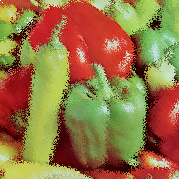
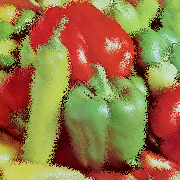
example: up images to 180px, cleanup markup, use pseudo elements as gridlines

diff --git a/example/index.html b/example/index.html
@@ -14,29 +14,29 @@
     <figure>
       <ul>
         <li>
-          <img src="assets/elaine.jpg" width="179" height="179" alt="assets/elaine.jpg" />
+          <img src="assets/elaine.jpg" height="180" width="180" alt="assets/elaine.jpg" />
         </li>
         <li>
-          <canvas width="179" height="179">
-            <img src="assets/elaine-1.png" width="179" height="179" alt="assets/elaine.jpg" />
+          <canvas height="180" width="180">
+            <img src="assets/elaine-1.png" height="180" width="180" alt="assets/elaine.jpg" />
           </canvas>
         </li>
         <li>
-          <canvas width="179" height="179">
-            <img src="assets/elaine-2.png" width="179" height="179" alt="assets/elaine.jpg" />
+          <canvas height="180" width="180">
+            <img src="assets/elaine-2.png" height="180" width="180" alt="assets/elaine.jpg" />
           </canvas>
         </li>
         <li>
-          <img src="assets/4.2.07.jpg" width="179" height="179" alt="assets/4.2.07.jpg" />
+          <img src="assets/4.2.07.jpg" height="180" width="180" alt="assets/4.2.07.jpg" />
         </li>
         <li>
-          <canvas width="179" height="179">
-            <img src="assets/4.2.07-1.png" width="179" height="179" alt="assets/4.2.07.jpg" />
+          <canvas height="180" width="180">
+            <img src="assets/4.2.07-1.png" height="180" width="180" alt="assets/4.2.07.jpg" />
           </canvas>
         </li>
         <li>
-          <canvas width="179" height="179">
-            <img src="assets/4.2.07-2.png" width="179" height="179" alt="assets/4.2.07.jpg" />
+          <canvas height="180" width="180">
+            <img src="assets/4.2.07-2.png" height="180" width="180" alt="assets/4.2.07.jpg" />
           </canvas>
         </li>
       </ul>

diff --git a/example/index.css b/example/index.css
@@ -35,6 +35,17 @@ figure {
   top: 50%;
 }
 
+figure::before {
+  background: #fff;
+  content: "";
+  height: 1px;
+  left: 0;
+  position: absolute;
+  right: 0;
+  top: 180px;
+  z-index: 101;
+}
+
 figcaption {
   margin: 0.5rem 0 0;
 }
@@ -44,20 +55,33 @@ ul {
   list-style: none;
   margin: 0;
   padding: 0;
+  position: relative;
   width: 540px;
+}
+
+ul::before,
+ul::after {
+  background: #fff;
+  content: "";
+  height: 100%;
+  position: absolute;
+  width: 1px;
+  z-index: 101;
+}
+
+ul::before {
+  left: 180px;
+}
+
+ul::after {
+  right: 180px;
 }
 
 li {
   background: #bbb;
-  border: 1px solid #fff;
-  border-width: 0 0 1px 0;
   display: block;
   float: left;
   position: relative;
-}
-
-li:nth-child(3n + 2) {
-  border-width: 0 1px 1px;
 }
 
 canvas,
